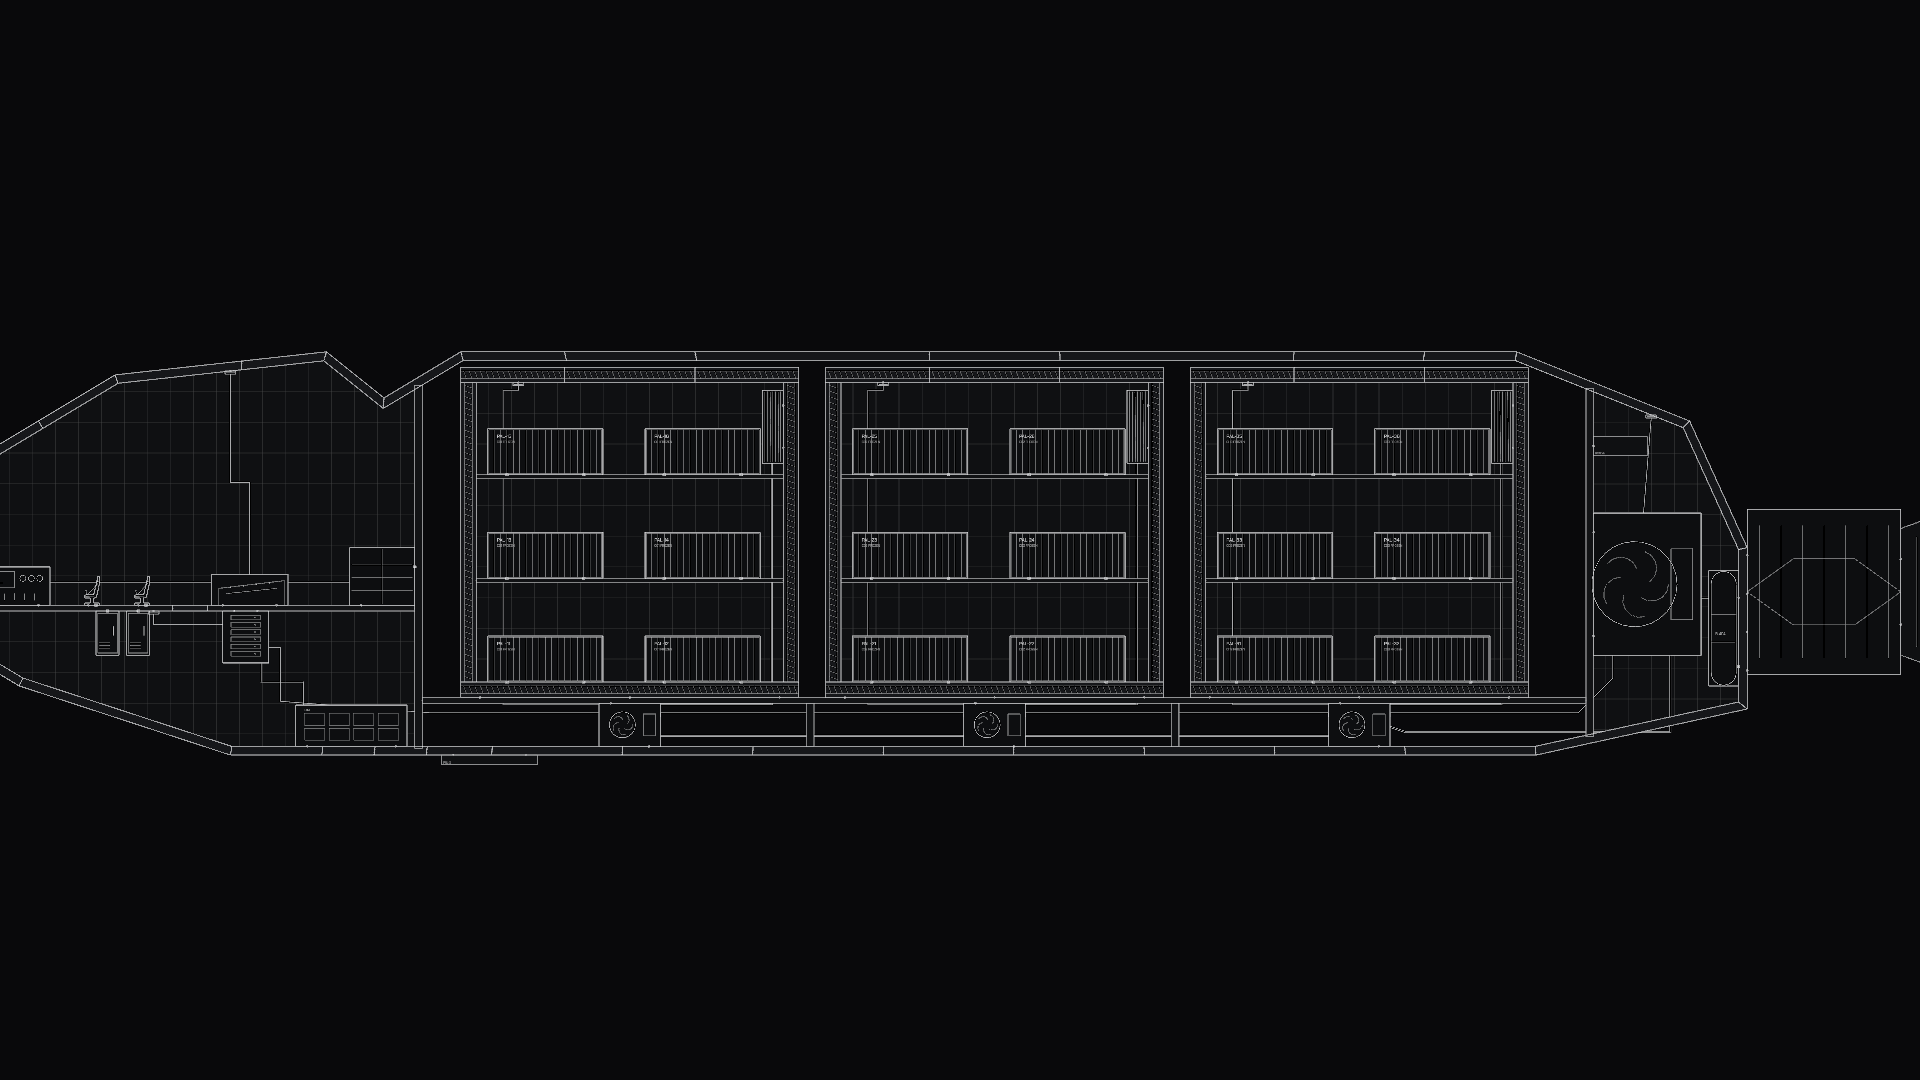
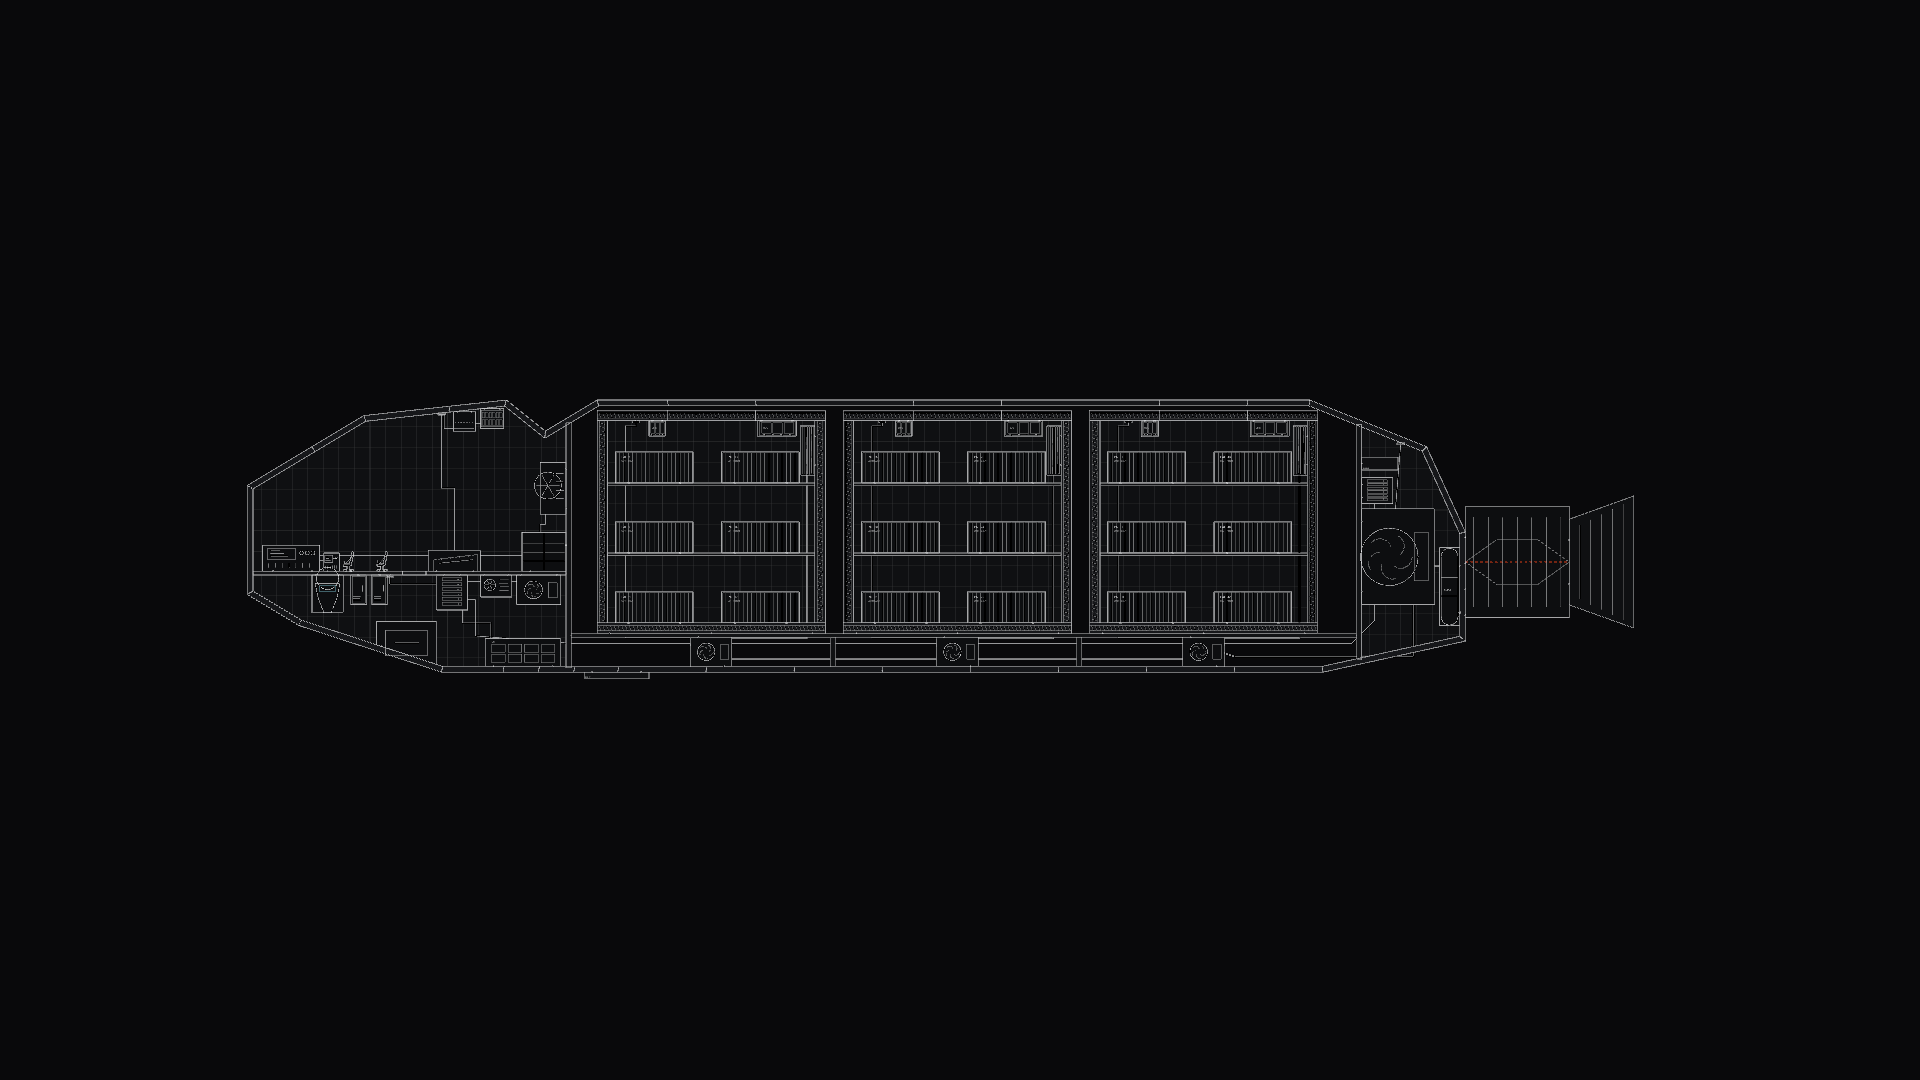
Fill CL-104 interiors
Vaccine cold boxes under each hold's roof, the cockpit's overhead panel,
cold-chain monitor, radio and air, the buffer airlock's cold-weather gear,
heater, dehumidifier and forklift, the plant's control panel (14 more pieces).

diff --git a/design/ships/CL-104_霜仓_实装记录.md b/design/ships/CL-104_霜仓_实装记录.md
@@ -4,7 +4,7 @@
 
 ## 实装
 
-- 造船脚本 `tools/authoring/cl104_author.gd` → `ships/cl104.json`：109 件、203 个固定点、21 条线路、23 个接口、6 个舱。总长 107 m，要 120 m 船坞。
+- 造船脚本 `tools/authoring/cl104_author.gd` → `ships/cl104.json`：124 件、233 个固定点、28 条线路、23 个接口、6 个舱（内饰加密后）。总长 107 m，要 120 m 船坞。
 - 外形：抬高的驾驶舱、中段平顶长船体里立着三组厚壁隔热冷舱（冷舱和外壳之间是真空隔热层），舰尾制冷主机舱，再往后是靠四颗分离螺栓挂着的整段动力尾段。
 - 舱室：C 驾驶舱（导航台、两座、冷链控制台、强制目标货物清单机）；A 驾驶甲板下的缓冲气闸（电池、配电盘、两只防寒服柜，腹部舱口进，甲板舱口上驾驶舱）；K1/K2/K3 三个冷舱（各 6 个冷链整托盘：两层货架 + 舱底，舱壁上一台蒸发器，舱顶货舱口，上方船顶对应一个舱口）；R 制冷主机舱（制冷主机、冷媒储液罐、冷媒回收阀组）；冷舱下方的龙骨舱里每舱一台底置冷机。
 - 特化：**冷链不能断**（新模块 `scripts/coldchain.gd`）
@@ -13,9 +13,16 @@
   - 回温过 −5 °C：这一舱的货解冻，只剩 45 % 价值，不可逆；
   - 正确做法：先在外部面板插上「船坞临时供冷」（新的插座类型，和船坞供电插座分开），再断电、再动制冷系统；
   - 冷媒要从储液罐回收口闭环回收；冷舱各有回收口，开舱顶货舱口前先放气。
-- 市场：CL 级「霜仓级冷链运输船」，声望 13 起出现；标准用时 42 分钟，合同价值约 $220,000。
+- 市场：CL 级「霜仓级冷链运输船」，声望 13 起出现；标准用时 48 分钟，合同价值约 $299,700（加密前 $220,000）。
 
-## 和参考图的出入
+## 内饰加密（2026-10-19 玩家反馈：大船不能又大又空）
+
+- 设备从 36 件加到 50 件：
+  - 每个冷库顶上加两只上锁的疫苗冷藏箱（避开顶舱口，跟托盘一样怕回温）；
+  - C 驾驶舱：顶部面板、冷链监控屏、无线电、隔壁上的空调；
+  - A 缓冲气闸：防寒服柜、加热器、除湿机（挂在甲板下）、地上的电动叉车；
+  - R 制冷机舱：隔壁上的制冷控制面板；
+  - 新增 7 条电缆。
 
 - 冷舱做成立在真空隔热层里的独立厚壁舱（参考图里冷舱是船体的一部分），这样「保温」和「舱壁很厚」都有实物。
 - 冷媒总管做成冷机之间串联的管路，回收阀在主机舱。
@@ -26,3 +33,4 @@
 - `tests/cl104_check.gd`：全过（开局 −25 °C、探头读数、有电保温、断电回温、过 −5 °C 解冻且只剩 45 %、别的舱不受影响、存档、先插临时供冷再断电冷舱保持、临时供冷不碰船坞电源）。
 - 机器人快拆（第一步就插临时供冷）：回收率 100.3%，无事故；随机合同 24 张，0 张丢弃，抽 8 张实拆 8/8（97–100%）。
 - 截图：`design/ships/CL-104_霜仓_剖面.png`。
+- 加密后重测：验证 13 项全过、`tests/cl104_check.gd` 全过；机器人快拆 99.3%，无事故；随机合同 8/8，消防瓶 3/3。
